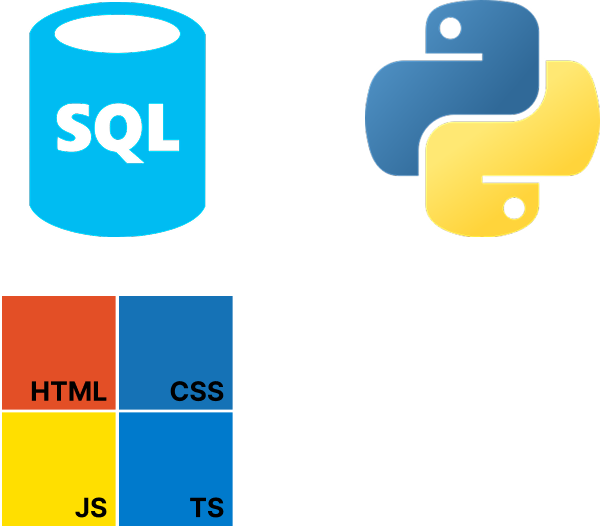
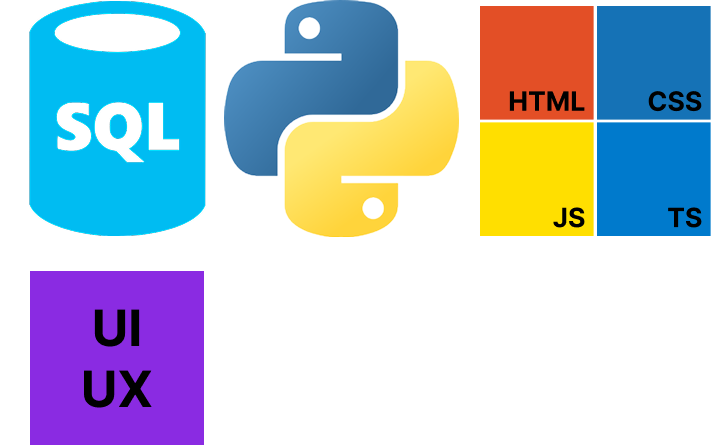
Updated alt text for images. Updated combined projects image.

diff --git a/index.html b/index.html
@@ -145,7 +145,6 @@
                             </div>
                         </div>
                         <div class="about__button__section">
-                            <!--#TODO HREF-->
                             <a download="" href="assets/pdf/SalinasEA-Resume.pdf" class="button button--flex about__button">
                                 Download resume<i class="uil uil-import button__icon"></i>
                             </a>
@@ -244,7 +243,6 @@
                     </div>
                     <div class="qualification__sections">
 
-                        
                         <!--==================== QUALIFICATION CONTENT 1 ====================-->
                         <div class="qualification__content qualification__active" data-content id="education">
                             
@@ -419,7 +417,7 @@
 
                         <!--==================== PORTFOLIO 4 ====================-->
                         <div class="portfolio__content grid swiper-slide">
-                            <img src="assets/img/html-css-js-ts.png" alt="HTML, CSS icon" class="portfolio__img">
+                            <img src="assets/img/html-css-js-ts.png" alt="HTML-CSS-JS-TS image" class="portfolio__img">
                             <div class="portfolio__data">
                                 <h3 class="portfolio__title">HTML-CSS-JS-TS</h3>
                                 <p class="portfolio__description">50 varying HTML-CSS-JS-TS projects successfully completed.</p>
@@ -431,7 +429,7 @@
 
                         <!--==================== PORTFOLIO 5 ====================-->
                         <div class="portfolio__content grid swiper-slide">
-                            <img src="assets/img/ui-ux.png" alt="HTML, CSS icon" class="portfolio__img">
+                            <img src="assets/img/ui-ux.png" alt="UI-UX image" class="portfolio__img">
                             <div class="portfolio__data">
                                 <h3 class="portfolio__title">UI-UX</h3>
                                 <p class="portfolio__description">2 UI-UX projects successfully completed.</p>
